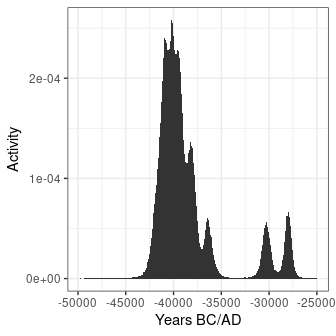
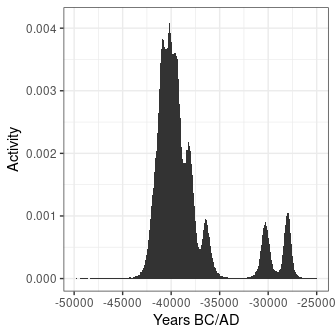
Import phases from a csv

diff --git a/README.md b/README.md
@@ -16,10 +16,11 @@ Statistical analysis of archaeological dates and groups of dates.
 **ArchaeoPhases** allows to post-process Markov Chain Monte Carlo (MCMC)
 simulations from [ChronoModel](https://chronomodel.com),
 [Oxcal](https://c14.arch.ox.ac.uk/oxcal.html) or
-[BCal](https://bcal.shef.ac.uk). It provides functions for the
-estimation and visualization of time ranges from the posterior
-distribution of a series of dates (e.g. transition and hiatus between
-successive phases).
+[BCal](https://bcal.shef.ac.uk). This package provides functions for the
+study of rhythms of the long term from the posterior distribution of a
+series of dates (tempo and activity plot). It also allows the estimation
+and visualization of time ranges from the posterior distribution of
+groups of dates (e.g. transition and hiatus between successive phases).
 
 To cite **ArchaeoPhases** in publications please use:
 
@@ -51,18 +52,23 @@ remotes::install_github("ArchaeoStat/ArchaeoPhases")
 library(ArchaeoPhases)
 
 library(ggplot2)
-library(magrittr)
 ```
 
 Import a CSV file containing a sample from the posterior distribution:
 
 ``` r
 ## Read output from ChronoModel
-path_zip <- system.file("extdata/chronomodel.zip", package = "ArchaeoPhases")
-path_csv <- utils::unzip(path_zip, exdir = tempdir())
+output_zip <- system.file("extdata/chronomodel.zip", package = "ArchaeoPhases")
+output_csv <- utils::unzip(output_zip, exdir = tempdir())
 
-chrono_events <- read_chronomodel(path_csv[[1]])
-chrono_phases <- read_chronomodel(path_csv[[2]])
+(chrono_events <- read_chronomodel(output_csv[[1]], phases = FALSE))
+#> <EventsMCMC>
+#> - Number of events: 16
+#> - Calendar: BCAD
+(chrono_phases <- read_chronomodel(output_csv[[2]], phases = TRUE))
+#> <PhasesMCMC>
+#> - Modelled phases: EPI UP Ahmarian IUP
+#> - Calendar: BCAD
 ```
 
 **ArchaeoPhases** uses
@@ -87,21 +93,17 @@ plot(tp) +
   ggplot2::theme(legend.position = "bottom")
 
 ## Activity plot
-ac <- activity(chrono_events)
+ac <- activity(tp)
 plot(ac) +
   ggplot2::theme_bw()
 ```
 
 ![](man/figures/README-tempo-plot-1.png)![](man/figures/README-tempo-plot-2.png)
 
-### Analysis of a series of phases
+### Analysis of a group of dates (phase)
 
 ``` r
-## Get phases
-phases <- as_phases(chrono_phases)
-names(phases) <- c("EPI", "UP", "Ahmarian", "IUP")
-
-plot(phases) +
+plot(chrono_phases) +
   ggplot2::theme_bw()
 ```
 
@@ -109,14 +111,15 @@ plot(phases) +
 
 ``` r
 ## Set chronological order
-set_order(phases) <- c("IUP", "Ahmarian", "UP", "EPI")
-get_order(phases)
+## (from the oldest to the youngest phase)
+set_order(chrono_phases) <- c("IUP", "Ahmarian", "UP", "EPI")
+get_order(chrono_phases)
 #> [1] IUP      Ahmarian UP       EPI     
 #> Levels: IUP < Ahmarian < UP < EPI
 ```
 
 ``` r
-plot(phases, level = 0.95) +
+plot(chrono_phases, level = 0.95) +
   ggplot2::theme_bw()
 ```
 
